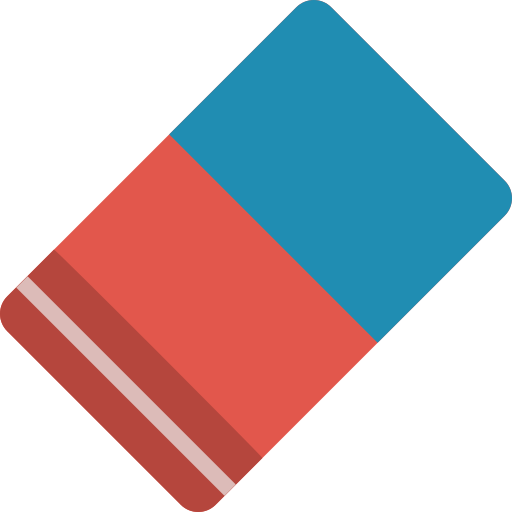
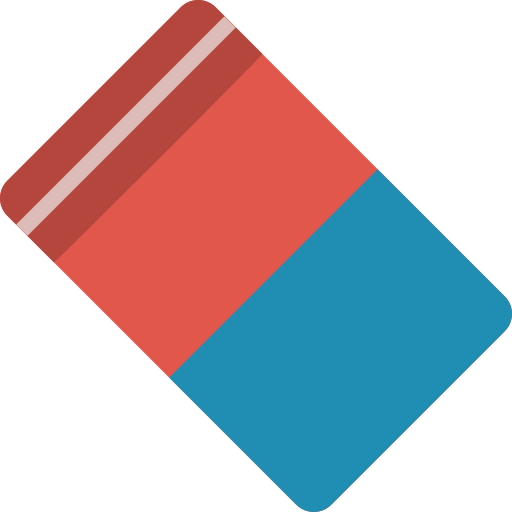
implemented custom cursors, bit of ui changes too

diff --git a/src/main/java/nz/ac/auckland/se206/controllers/CanvasController.java b/src/main/java/nz/ac/auckland/se206/controllers/CanvasController.java
@@ -6,9 +6,12 @@ import ai.djl.translate.TranslateException;
 import java.awt.Graphics2D;
 import java.awt.image.BufferedImage;
 import java.io.File;
+import java.io.FileInputStream;
+import java.io.FileNotFoundException;
 import java.io.IOException;
 import javafx.embed.swing.SwingFXUtils;
 import javafx.fxml.FXML;
+import javafx.scene.ImageCursor;
 import javafx.scene.Scene;
 import javafx.scene.canvas.Canvas;
 import javafx.scene.canvas.GraphicsContext;
@@ -63,11 +66,23 @@ public class CanvasController {
     model = new DoodlePrediction(); // Load the model.
   }
 
-  /** Called when the brush button is pressed, sets the brush to be used for drawing. */
+  /**
+   * Called when the brush button is pressed, sets the brush to be used for drawing.
+   *
+   * @throws FileNotFoundException
+   */
   @FXML
-  private void onSwitchToBrush() {
+  private void onSwitchToBrush() throws FileNotFoundException {
     brushButton.setDisable(true); // Toggle to disable the brush button.
     eraserButton.setDisable(false);
+
+    // Passing FileInputStream object as a parameter
+    FileInputStream inputstream =
+        new FileInputStream(
+            "C:\\Users\\mccha\\OneDrive\\Documents\\University\\Second\\Sem2\\206\\206-beta-UI\\quick-draw-beta-final-team-39\\src\\main\\resources\\images\\curser_image1.png");
+    Image image = new Image(inputstream);
+
+    canvas.setCursor(new ImageCursor(image));
 
     canvas.setOnMouseDragged(
         e -> {
@@ -89,11 +104,23 @@ public class CanvasController {
         });
   }
 
-  /** Called when the eraser button is pressed, sets the eraser to be used. */
+  /**
+   * Called when the eraser button is pressed, sets the eraser to be used.
+   *
+   * @throws FileNotFoundException
+   */
   @FXML
-  private void onSwitchToEraser() {
+  private void onSwitchToEraser() throws FileNotFoundException {
     eraserButton.setDisable(true); // Toggle to disable the eraser button.
     brushButton.setDisable(false);
+
+    // Passing FileInputStream object as a parameter
+    FileInputStream inputstream =
+        new FileInputStream(
+            "C:\\Users\\mccha\\OneDrive\\Documents\\University\\Second\\Sem2\\206\\206-final\\quick-draw-beta-final-team-39\\src\\main\\resources\\images\\eraser_cursor.png");
+    Image image = new Image(inputstream);
+
+    canvas.setCursor(new ImageCursor(image));
 
     double eraserSize = 12.5;
     canvas.setOnMouseDragged(
